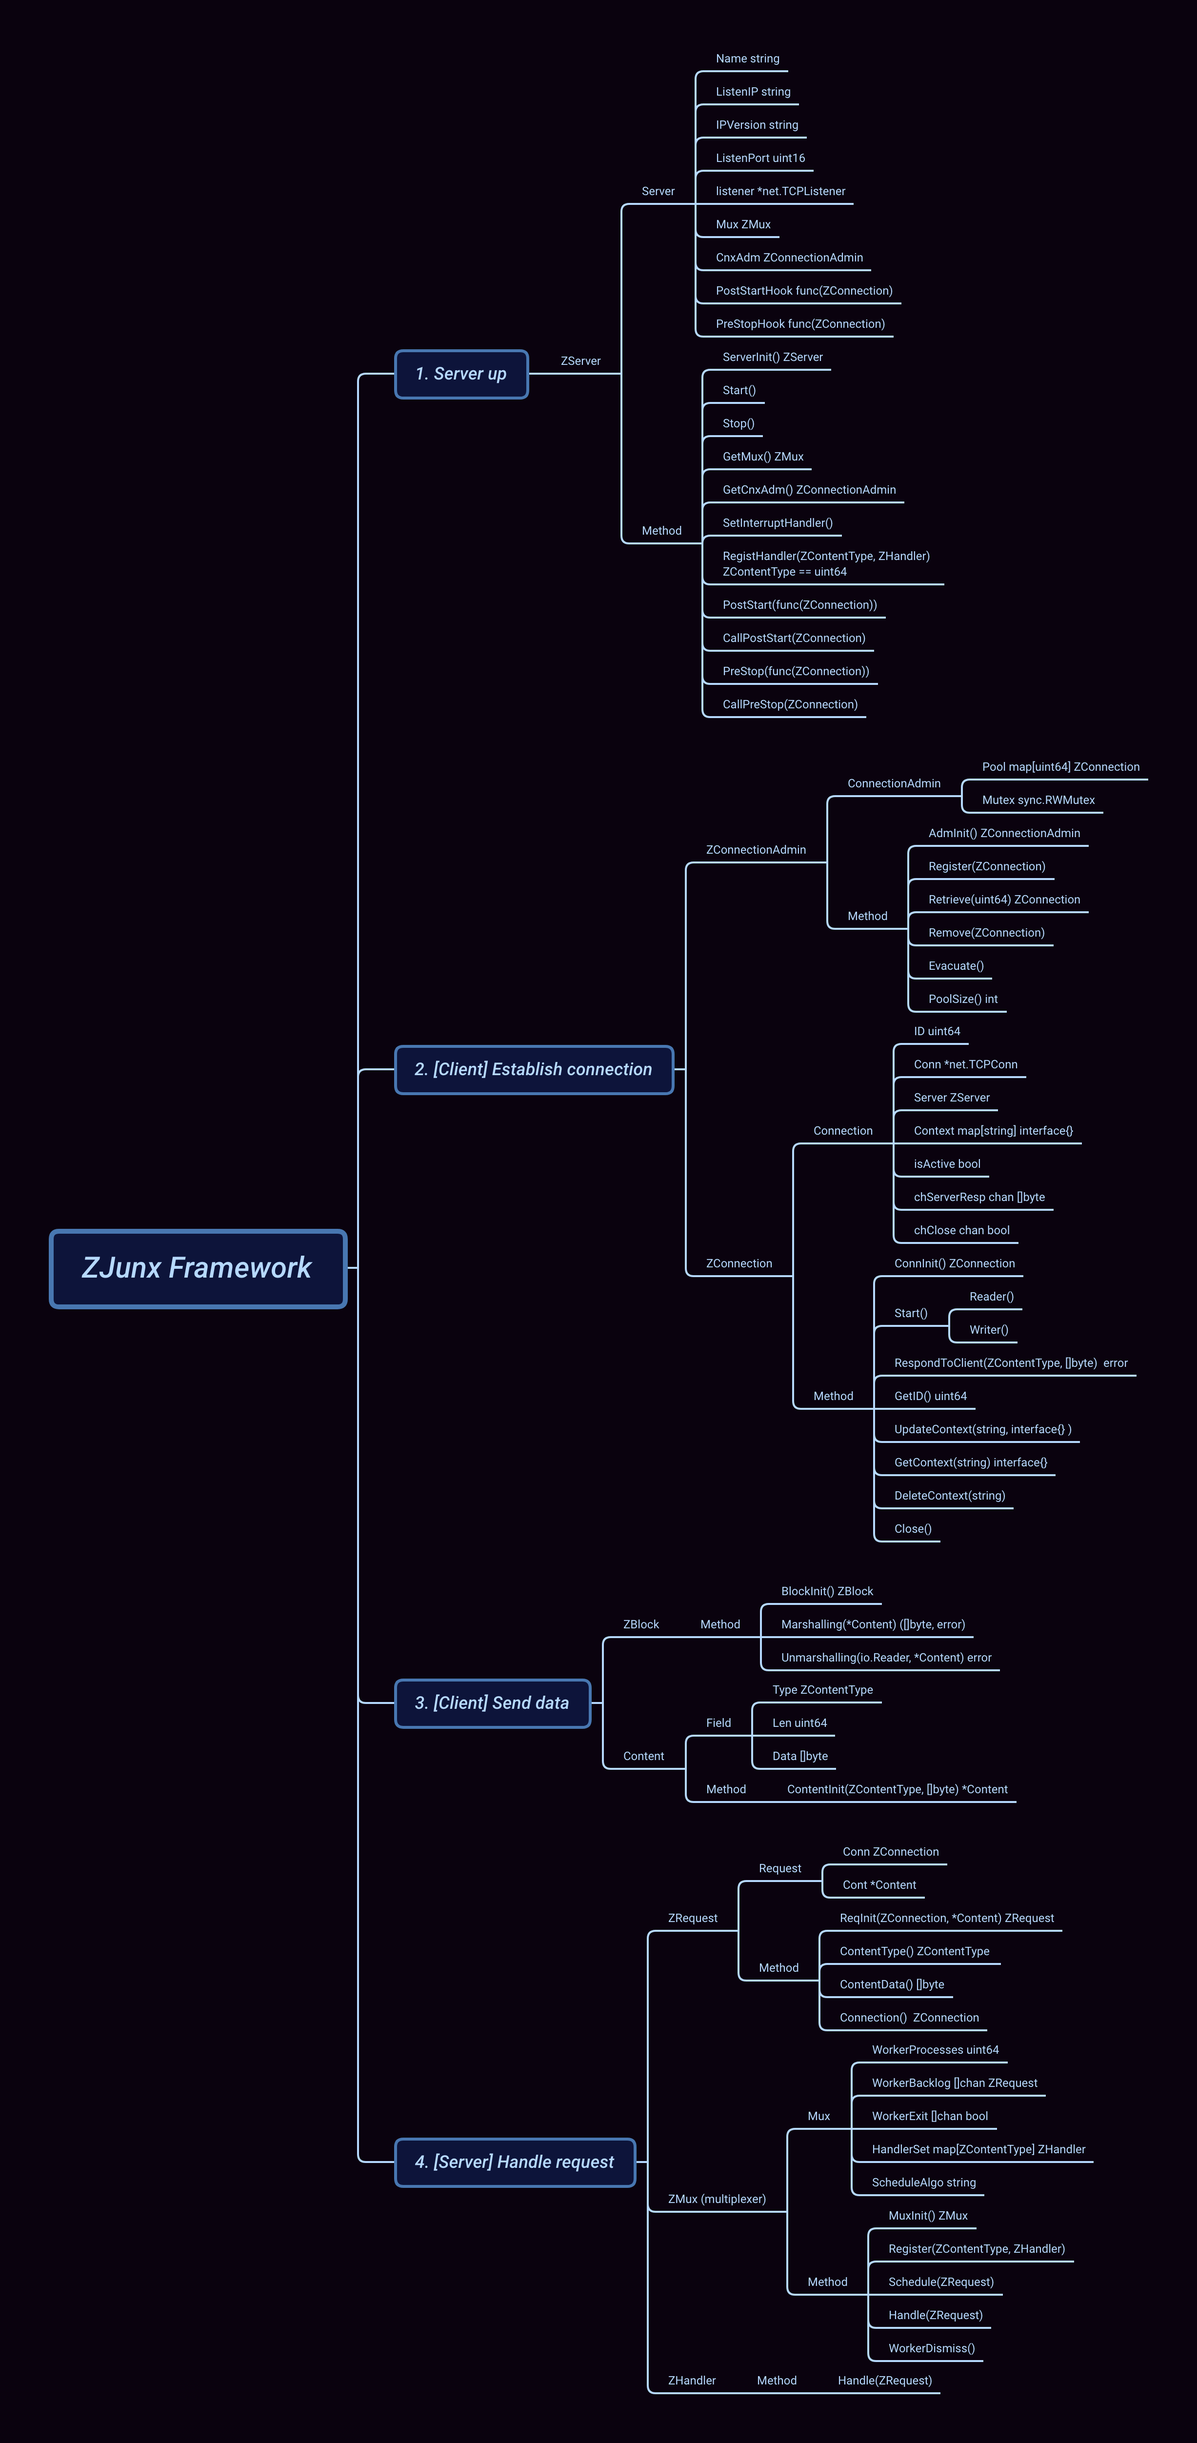
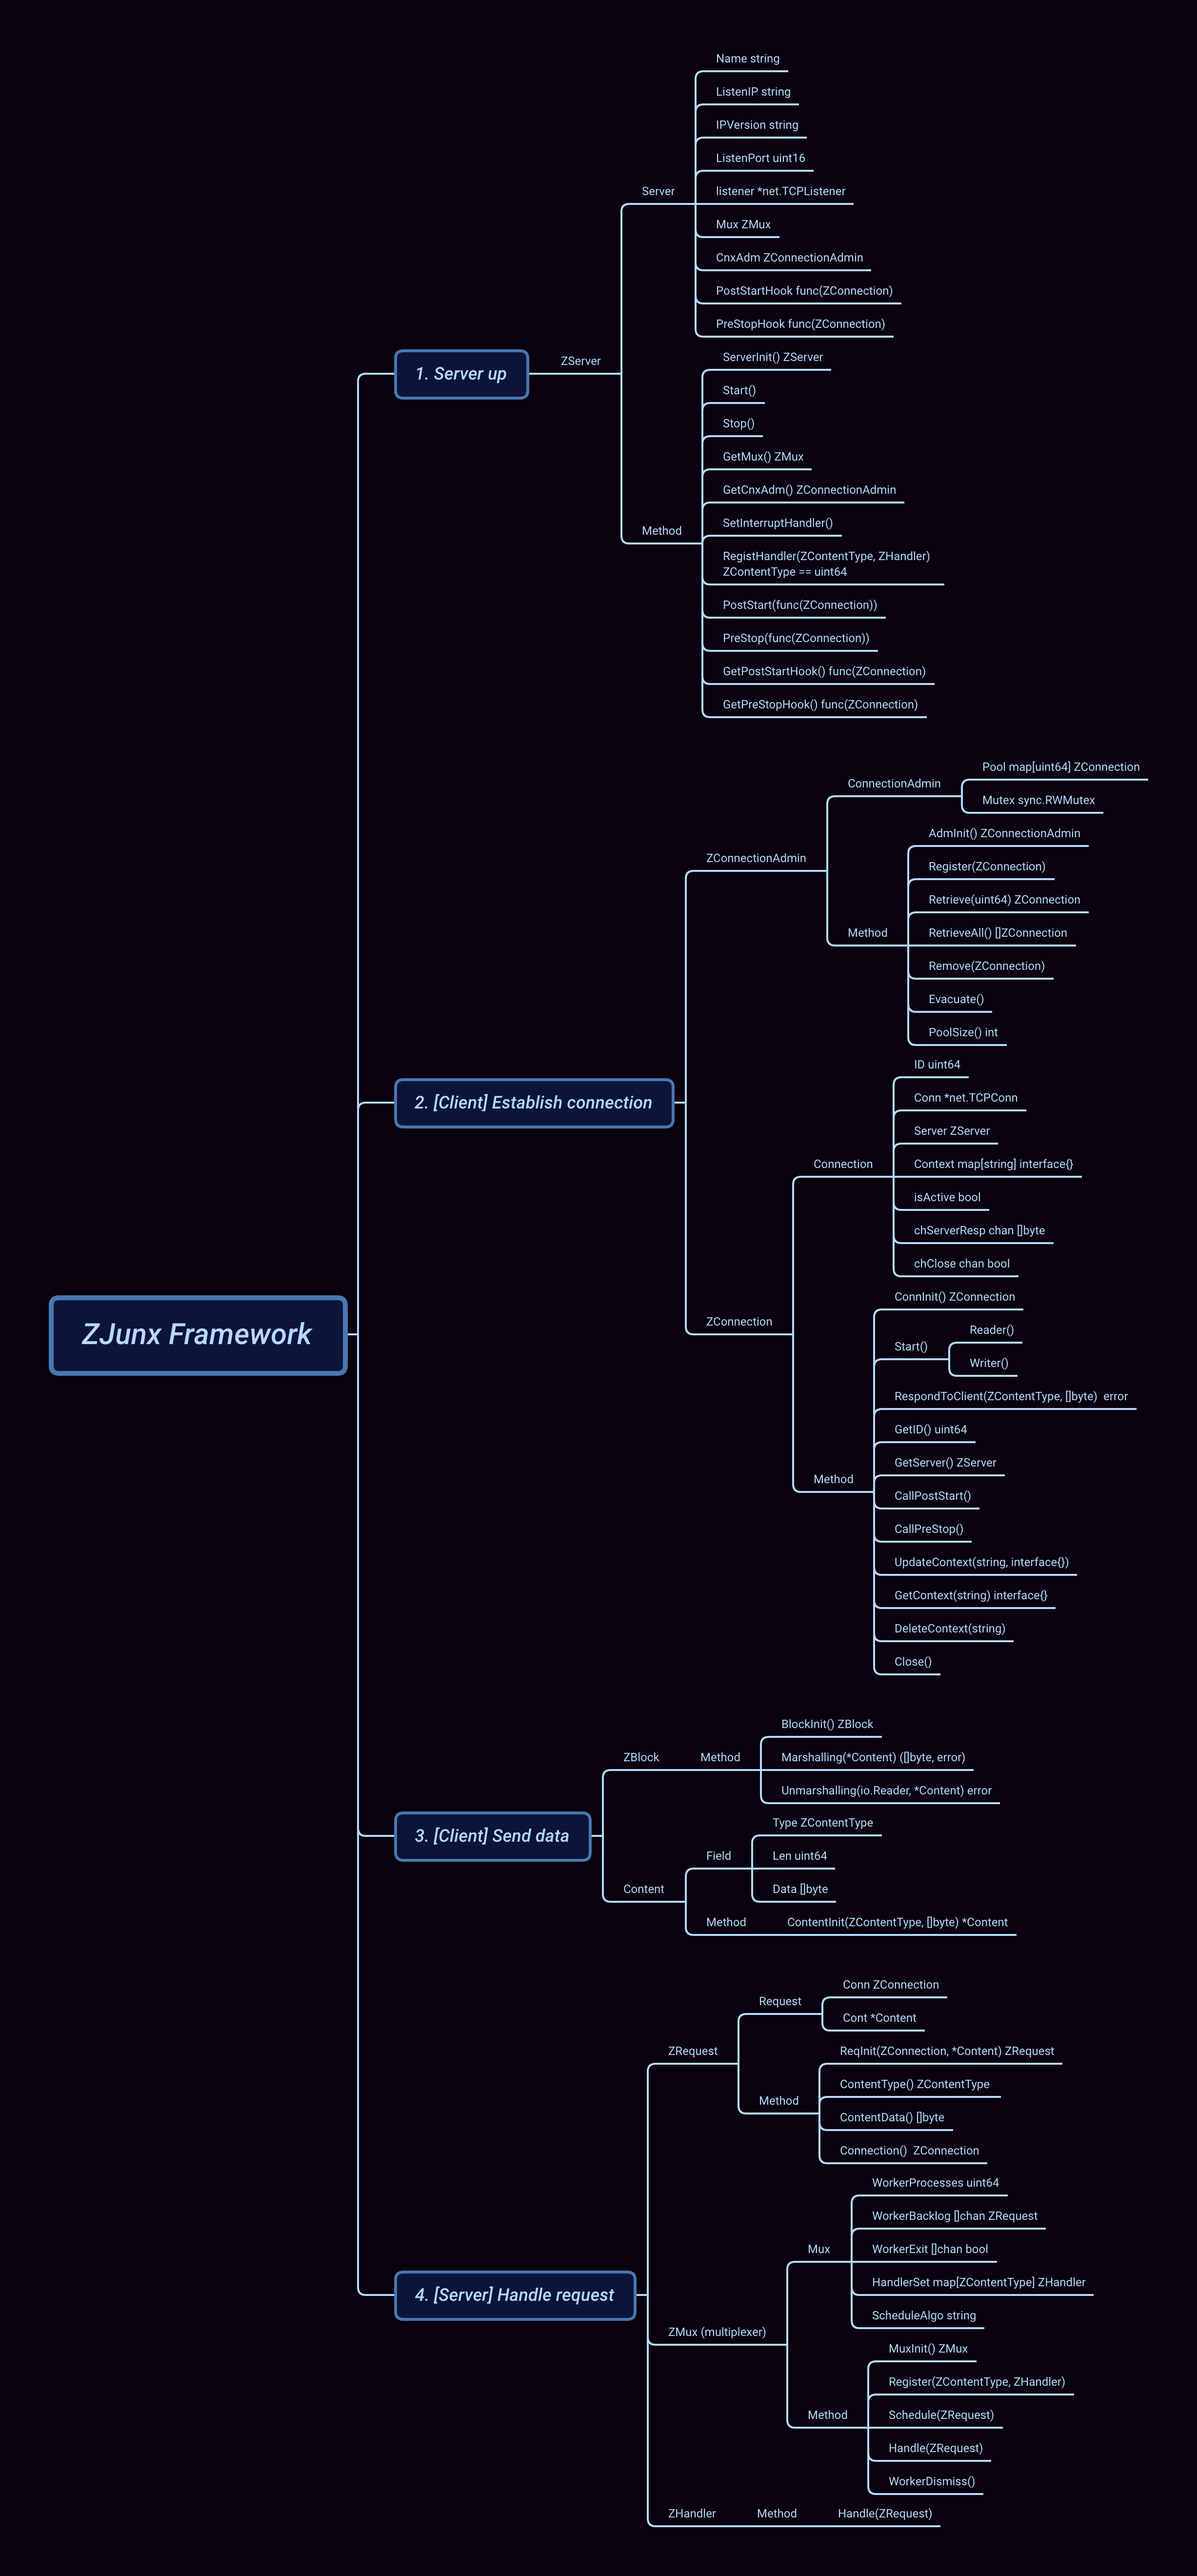
rearrange logic between zconnection and zserver

diff --git a/pkg/server/zconnection.go b/pkg/server/zconnection.go
@@ -20,6 +20,8 @@ type ZConnection interface {
 	UpdateContext(string, interface{})
 	GetContext(string) interface{}
 	DeleteContext(string)
+	CallPostStart()
+	CallPreStop()
 }
 
 type Connection struct {
@@ -111,7 +113,7 @@ func (c *Connection) Start() {
 	log.Printf("[DEBUG] Connection [id: %d] established from %v\n", c.ID, c.Conn.RemoteAddr())
 	go c.Reader()
 	go c.Writer()
-	c.Server.CallPostStart(c)
+	c.CallPostStart()
 }
 
 func (c *Connection) GetID() uint64 {
@@ -138,10 +140,26 @@ func (c *Connection) DeleteContext(key string) {
 	delete(c.Context, key)
 }
 
+func (c *Connection) CallPostStart() {
+	if c.Server.GetPostStartHook() == nil {
+		return
+	}
+
+	c.Server.GetPostStartHook()(c)
+}
+
+func (c *Connection) CallPreStop() {
+	if c.Server.GetPreStopHook() == nil {
+		return
+	}
+
+	c.Server.GetPreStopHook()(c)
+}
+
 // Clenup current connection before exit
 func (c *Connection) Close() {
 	log.Printf("[DEBUG] Closing connection [id: %d] ... \n", c.ID)
-	c.Server.CallPreStop(c)
+	c.CallPreStop()
 
 	if !c.isActive {
 		return

diff --git a/pkg/server/zserver.go b/pkg/server/zserver.go
@@ -15,15 +15,17 @@ import (
 type ZServer interface {
 	Start()
 	Stop()
+
 	GetMux() ZMux
 	GetCnxAdm() ZConnectionAdmin
+	GetPostStartHook() func(ZConnection)
+	GetPreStopHook() func(ZConnection)
+
 	SetInterruptHandler()
 
 	RegistHandler(encoding.ZContentType, ZHandler)
 	PostStart(func(ZConnection))
 	PreStop(func(ZConnection))
-	CallPostStart(ZConnection)
-	CallPreStop(ZConnection)
 }
 
 type Server struct {
@@ -133,18 +135,10 @@ func (s *Server) PreStop(hook func(ZConnection)) {
 	s.PreStopHook = hook
 }
 
-func (s *Server) CallPostStart(conn ZConnection) {
-	if s.PostStartHook == nil {
-		return
-	}
-
-	s.PostStartHook(conn)
+func (s *Server) GetPostStartHook() func(ZConnection) {
+	return s.PostStartHook
 }
 
-func (s *Server) CallPreStop(conn ZConnection) {
-	if s.PreStopHook == nil {
-		return
-	}
-
-	s.PreStopHook(conn)
+func (s *Server) GetPreStopHook() func(ZConnection) {
+	return s.PreStopHook
 }
